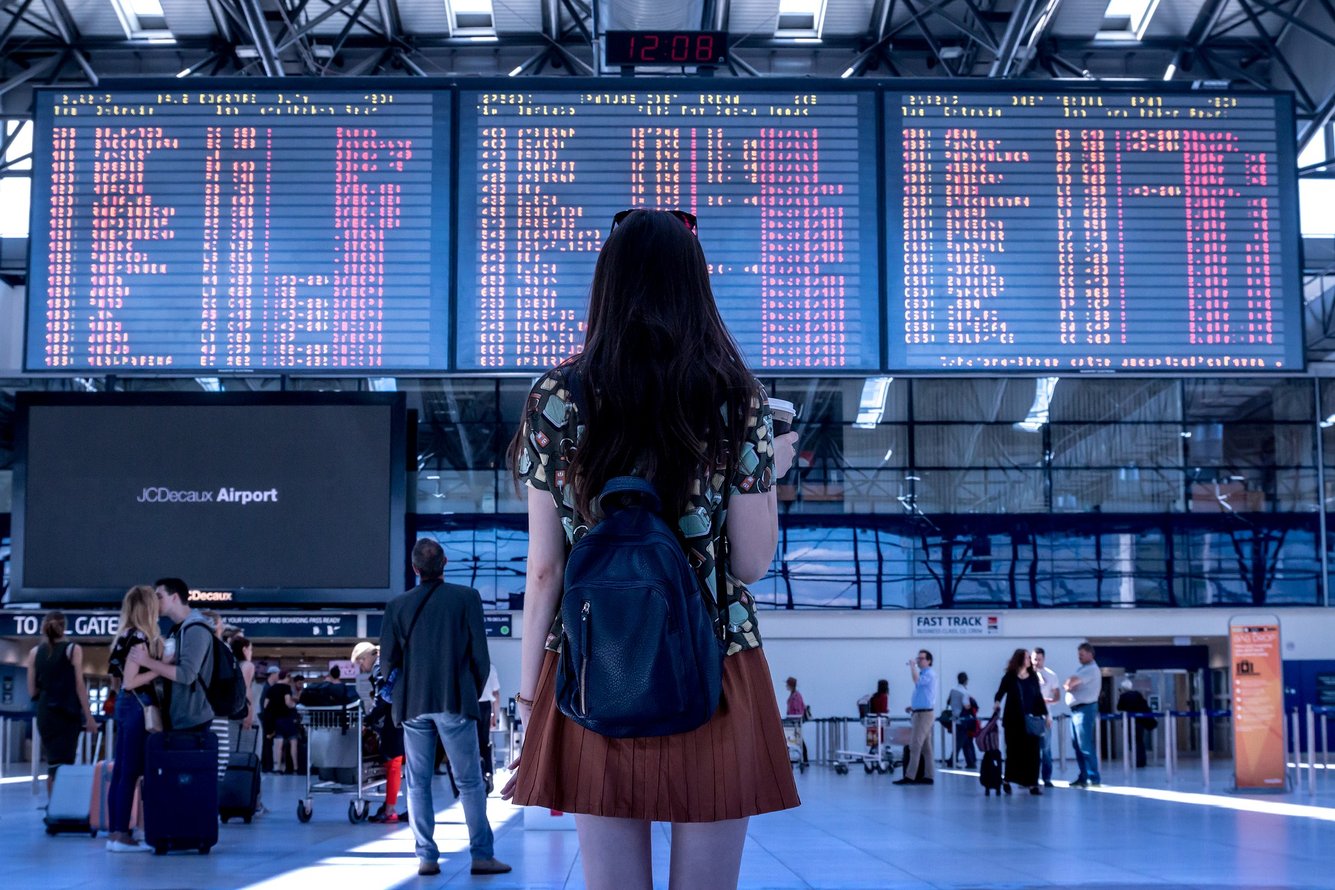
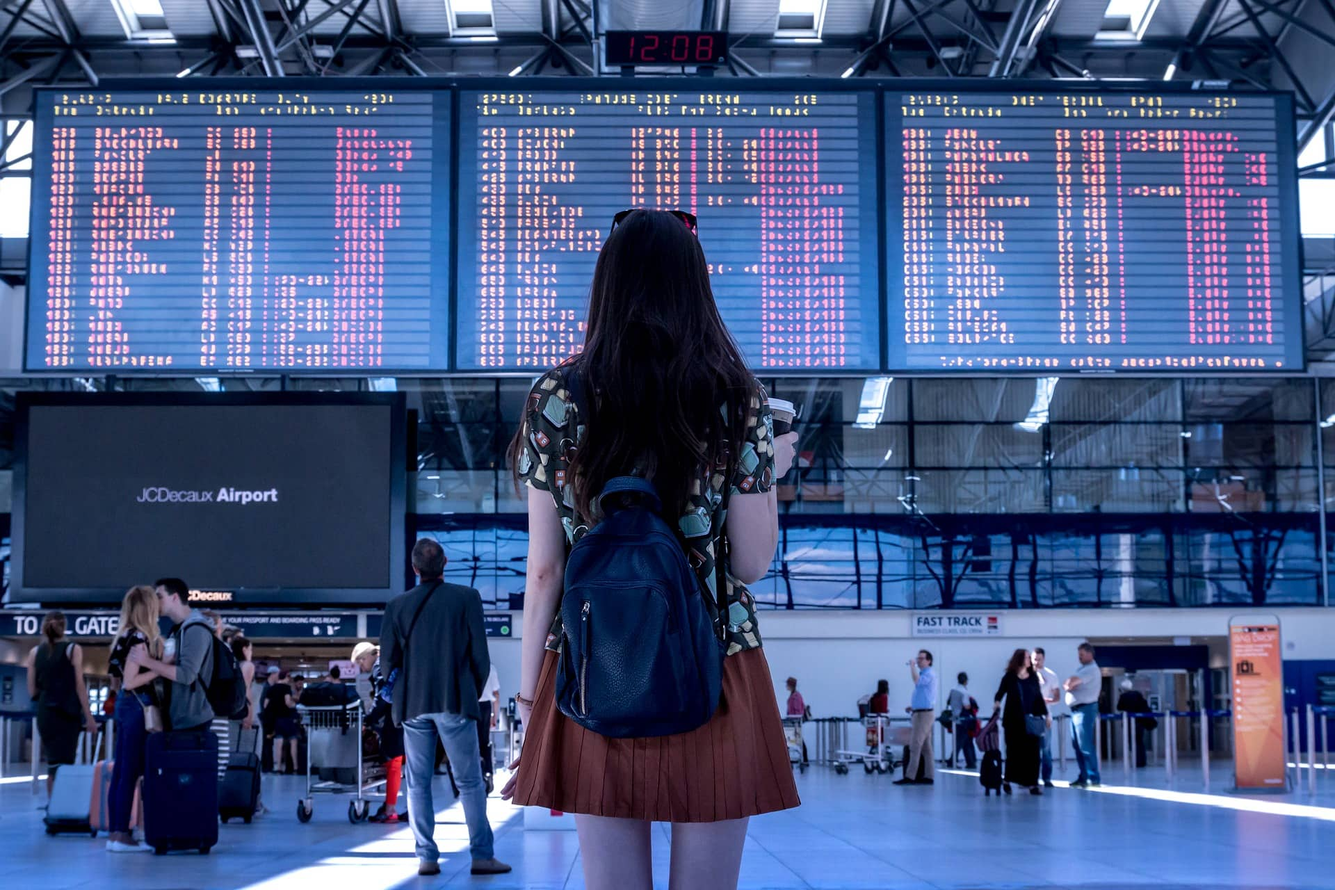
add new compressed image for header. add google fonts for header text

diff --git a/public/stylesheets/index.css b/public/stylesheets/index.css
@@ -106,10 +106,11 @@ header {
   display: block;
   position: relative;
   text-align: center;
-  width: 100%;
+  /* width: 100%; */
   height: 700px;
   background-image: url("../images/airport1.jpg");
-  background-position: center;
+  background-position: 50% 80%; 
+  /* background-position-x: 10px;  */
   background-size: 100%;
 }
 
@@ -137,7 +138,7 @@ nav ul li {
 }
 
 nav ul li a {
-  font-size: 1.4em;
+  font: normal 1.4em 'Merriweather', serif;
   color: #ffffff;
   text-decoration: none;
 }
@@ -148,7 +149,7 @@ nav ul li a:hover {
 
 h1 {
   color: #ffffff;
-  font-size: 1.6em;
+  font: italic 1.8em 'Merriweather', serif;
 }
 
 .h1-wrapper {
@@ -158,7 +159,7 @@ h1 {
 }
 
 .header-text-wrapper {
-  margin: 12% auto 0 auto;
+  margin: 15% auto 0 auto;
   width: 80%;
   float: none;
 }
@@ -168,7 +169,7 @@ h1 {
 }
 
 .container-for-header-text h2 {
-  font: normal 3.5em sans-serif;
+  font: italic 3em 'Merriweather', serif;
   color: #ffffff;
 }
 
@@ -184,7 +185,7 @@ h1 {
   color: #222020;
   border: none;
   outline: none;
-  width: 11%;
+  width: 12%;
   display: inline-block;
   height: 48px;
   margin-top: 40px;
@@ -197,13 +198,18 @@ h1 {
   background: #e6b949;
 }
 
-.fa-arrow-circle-down {
-  font-size: 4em;
-  color: #ffffff;
+.arrows {
+	width: 60px;
+  height: 72px;
+  position: absolute;
+  left: 48.5%;
+  bottom: 25%;
 }
 
-.arrow-wrapper {
-  margin-top: 100px;
+.arrows path {
+	stroke: #F2E6C6;
+	fill: transparent;
+	stroke-width: 1.5px;	
 }
 
 /* * * * * * * * * * * */

diff --git a/public/index.html b/public/index.html
@@ -5,7 +5,7 @@
   <meta charset="utf-8" />
   <meta name="viewport" content="width=device-width, initial-scale=1.0">
   <!--<link rel="stylesheet" type="text/css" href="stylesheets/modules/sass.css">-->
-  <link rel="stylesheet" href="https://cdnjs.cloudflare.com/ajax/libs/font-awesome/4.7.0/css/font-awesome.min.css">
+  <link href="https://fonts.googleapis.com/css?family=Merriweather:700" rel="stylesheet">
   <link rel="stylesheet" type="text/css" href="stylesheets/index.css">
 </head>
 <body>
@@ -27,19 +27,20 @@
       <section class="container-for-header-text col-12">
         <div class="header-text-wrapper col-6">
           <p>
-            SaveMyTrip will make your next trip goes off without a hitch.
+            an app designed to make your next trip goes off without a hitch.
           </p>
           <h2>
             Manage all your trips in one place.
           </h2>
         </div>
       </section>
-      <div>
+      <div class="btn-wrapper col-12">
         <button class="sign-up-btn">Sign Up</button>
       </div>
-      <div class="arrow-wrapper">
-        <i class="fa fa-arrow-circle-down smooth-container" aria-hidden="true"></i>
-      </div>
+      <svg class="arrows">
+        <path d="M0 20 L20 42 L40 20"></path>
+        <path d="M0 40 L20 62 L40 40"></path>
+      </svg>
     </div>
   </header>
 
